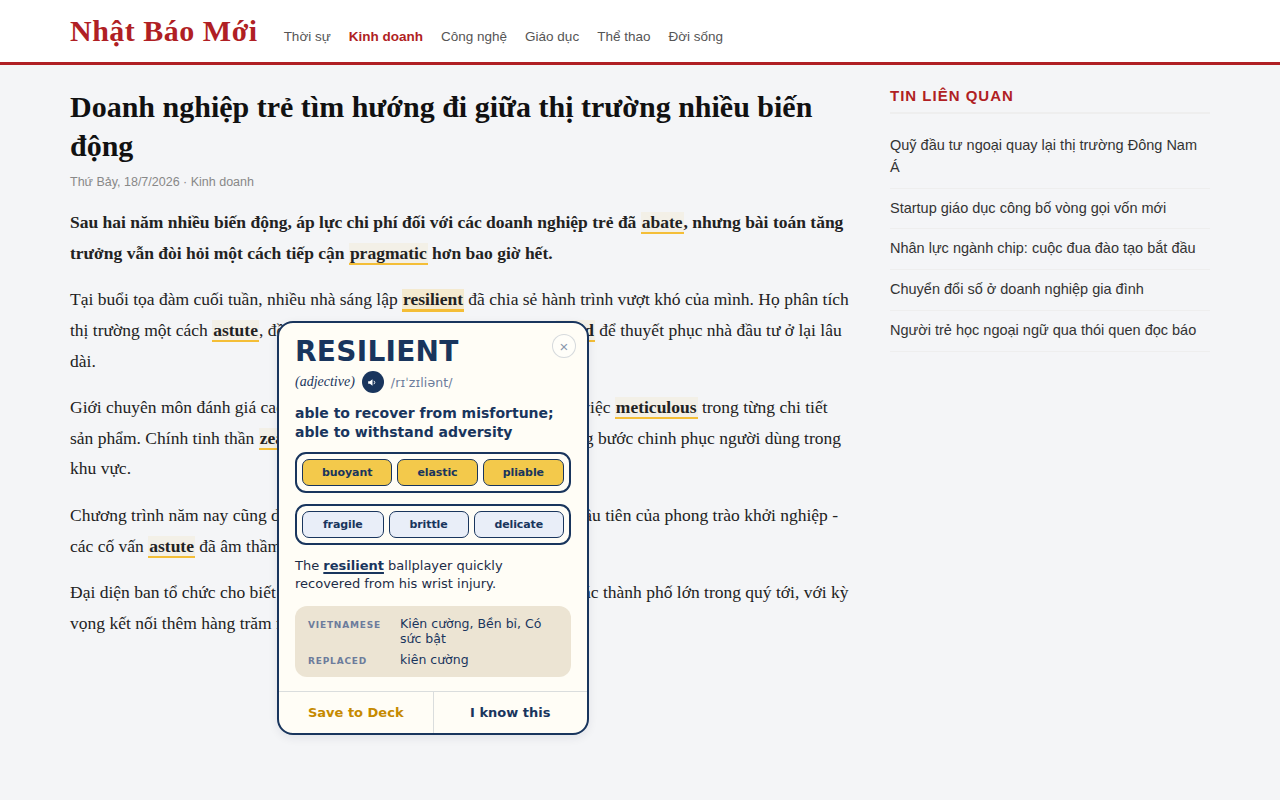
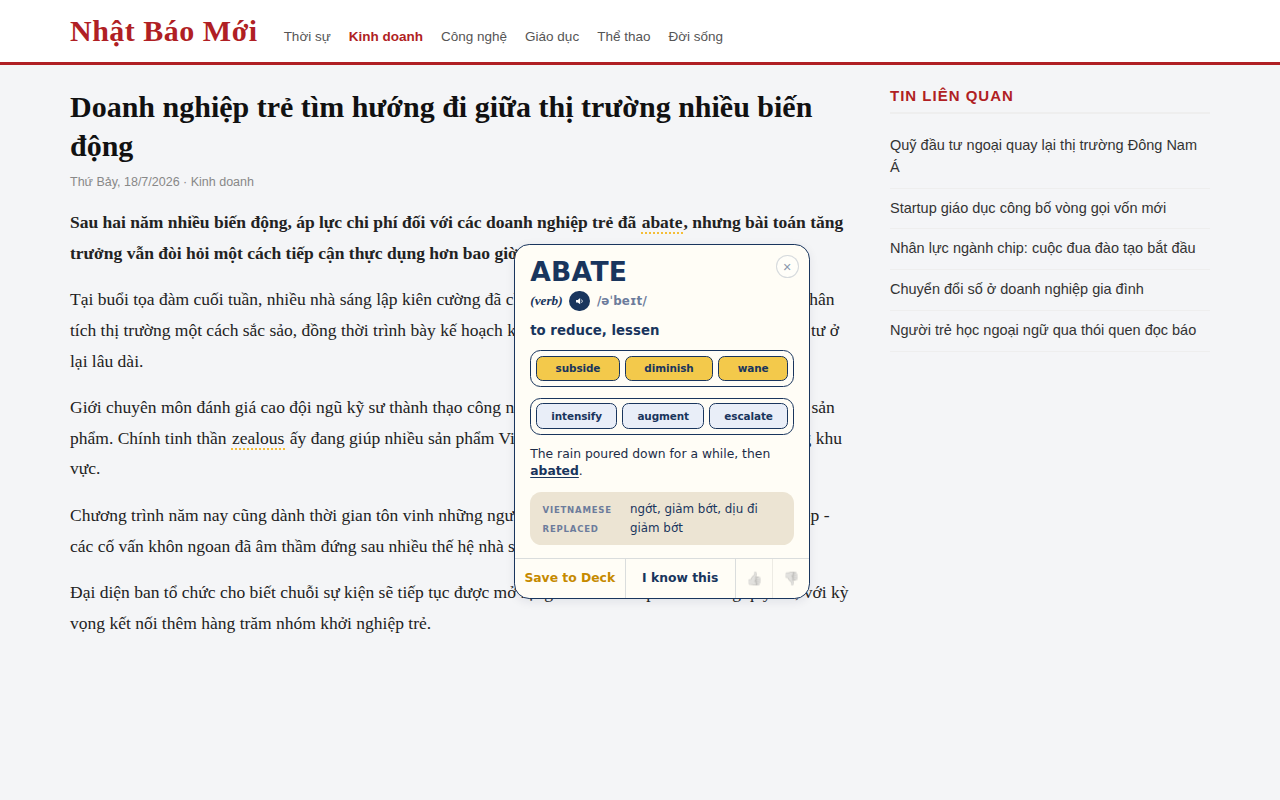
Mark a swapped word with a dotted underline and nothing else
The gold wash behind the word is gone, and so is the hover state that
deepened it. A wash paints over whatever background the page chose and a
hover change makes the word look selected; a dotted gold underline says
"Merid put this here" and leaves the sentence as its writer set it.
cursor: pointer plus the card on hover are the whole affordance now.

Same treatment in the two places that redraw it rather than load
content.css: the onboarding mode preview and the store screenshot
templates. store-assets/screenshot-1, -3 and -5-realpage regenerated -
-5 renders the real content script, so it also picks up the card without
a picture from 1.7.1.

Folded into the 1.7.1 CHANGELOG entry, which has not shipped yet.

Claude-Session: https://claude.ai/code/session_01MYeY1uiq8ukCApHuCvmAue

Changed region(s): [[0.0625, 0.25, 0.6562, 0.9062], [0.5938, 0.25, 0.625, 0.2812], [0.5, 0.2812, 0.5312, 0.3125]]

diff --git a/merid-extension-final/content.css b/merid-extension-final/content.css
@@ -1,20 +1,20 @@
-/* A word swapped into the page. The gold underline and faint wash carry the
-   signal on their own, so the weight is inherited rather than set: the word
-   reads as part of the sentence it landed in, whatever weight that sentence
-   is, instead of sitting heavier than the text around it. */
+/* A word swapped into the page. A dotted gold underline is the whole signal
+   now - no wash behind the word, and nothing that changes under the pointer.
+   A wash paints over the page's own background and a hover state makes the
+   word look selected; the dots mark it as Merid's and leave the sentence
+   otherwise as its writer set it. The weight is inherited rather than set for
+   the same reason: the word reads as part of the sentence it landed in,
+   whatever weight that sentence is, instead of sitting heavier than the text
+   around it.
+
+   cursor: pointer is what is left of the affordance - the card on hover is the
+   rest of it, and neither needs the word to change colour to be found. */
 .vocab-master-highlight {
-    border-bottom: 2px solid #f4be37;
+    border-bottom: 2px dotted #f4be37;
     cursor: pointer;
-    background-color: rgba(244, 190, 55, 0.08);
     padding: 0 1px;
     font-weight: inherit;
-    transition: all 0.3s ease;
     text-decoration: none;
-}
-
-.vocab-master-highlight:hover {
-    background-color: rgba(244, 190, 55, 0.2);
-    border-bottom: 3px solid #f4be37;
 }
 
 .vocab-master-tooltip {

diff --git a/merid-extension-final/assets/screenshot-1.html b/merid-extension-final/assets/screenshot-1.html
@@ -18,7 +18,7 @@
 .article { padding: 26px 28px 30px; color: #1a2233; font-family: 'Inter', Georgia, serif; }
 .article h2 { font-family: 'Outfit', sans-serif; font-size: 22px; color: #0f2340; line-height: 1.25; margin-bottom: 14px; }
 .article p { font-size: 16px; line-height: 1.72; color: #26324a; }
-.hl { border-bottom: 2px solid #f4be37; background: rgba(244,190,55,0.14); font-weight: 600; padding: 0 1px; }
+.hl { border-bottom: 2px dotted #f4be37; font-weight: 600; padding: 0 1px; }
 
 /* Learning card (matches the extension tooltip) */
 .card {

diff --git a/merid-extension-final/assets/screenshot-3.html b/merid-extension-final/assets/screenshot-3.html
@@ -12,7 +12,7 @@
   color: #b47d00; background: rgba(244,190,55,0.18); border-radius: 999px; padding: 4px 12px; margin-bottom: 12px; }
 .demo .sent { font-family: 'Inter', Georgia, serif; font-size: 20px; line-height: 1.5; color: #26324a; }
 .eng { color: #244f86; font-weight: 700; }
-.hl { border-bottom: 2px solid #f4be37; background: rgba(244,190,55,0.16); font-weight: 600; padding: 0 1px; }
+.hl { border-bottom: 2px dotted #f4be37; font-weight: 600; padding: 0 1px; }
 .beside { color: #7a879b; font-weight: 600; }
 </style>
 </head>

diff --git a/merid-extension-final/onboarding.js b/merid-extension-final/onboarding.js
@@ -408,7 +408,7 @@
         }
         .demo-text { margin: 0; font-size: 10px; line-height: 1.6; color: #2c3444; overflow: hidden; }
         /* The same marking content.css puts on a word in a real page. */
-        .w { border-bottom: 2px solid #f4be37; background-color: rgba(244, 190, 55, 0.16); padding: 0 1px; }
+        .w { border-bottom: 2px dotted #f4be37; padding: 0 1px; }
         .w.en { color: #0a3d91; font-weight: 600; }
 
         .mode .name {

diff --git a/merid-extension-final/CHANGELOG.md b/merid-extension-final/CHANGELOG.md
@@ -2,8 +2,9 @@
 
 ## 1.7.1 — 2026-08-24
 
-**The picture on the learning card is off for now.**
+**A quieter mark on the word, and the picture on the learning card is off for now.**
 
+- A word Merid put on the page now wears a dotted gold underline and nothing else. The pale yellow wash behind it is gone, and so is the way it darkened under the pointer — the page keeps its own background, and the word is marked rather than lit up. Hovering still opens the card.
 - Hovering a word shows its meaning without a picture again. The card is the definition, the example and the buttons, as it was before 1.7.0.
 - The On/Off control for it is gone from the toolbar popup and from Settings, along with the "Where the pictures come from" list, rather than left there switching something that no longer appears.
 - Nothing else about the card changed: the display modes, the deck buttons, the theme and the long-card scrolling all work as they did.
